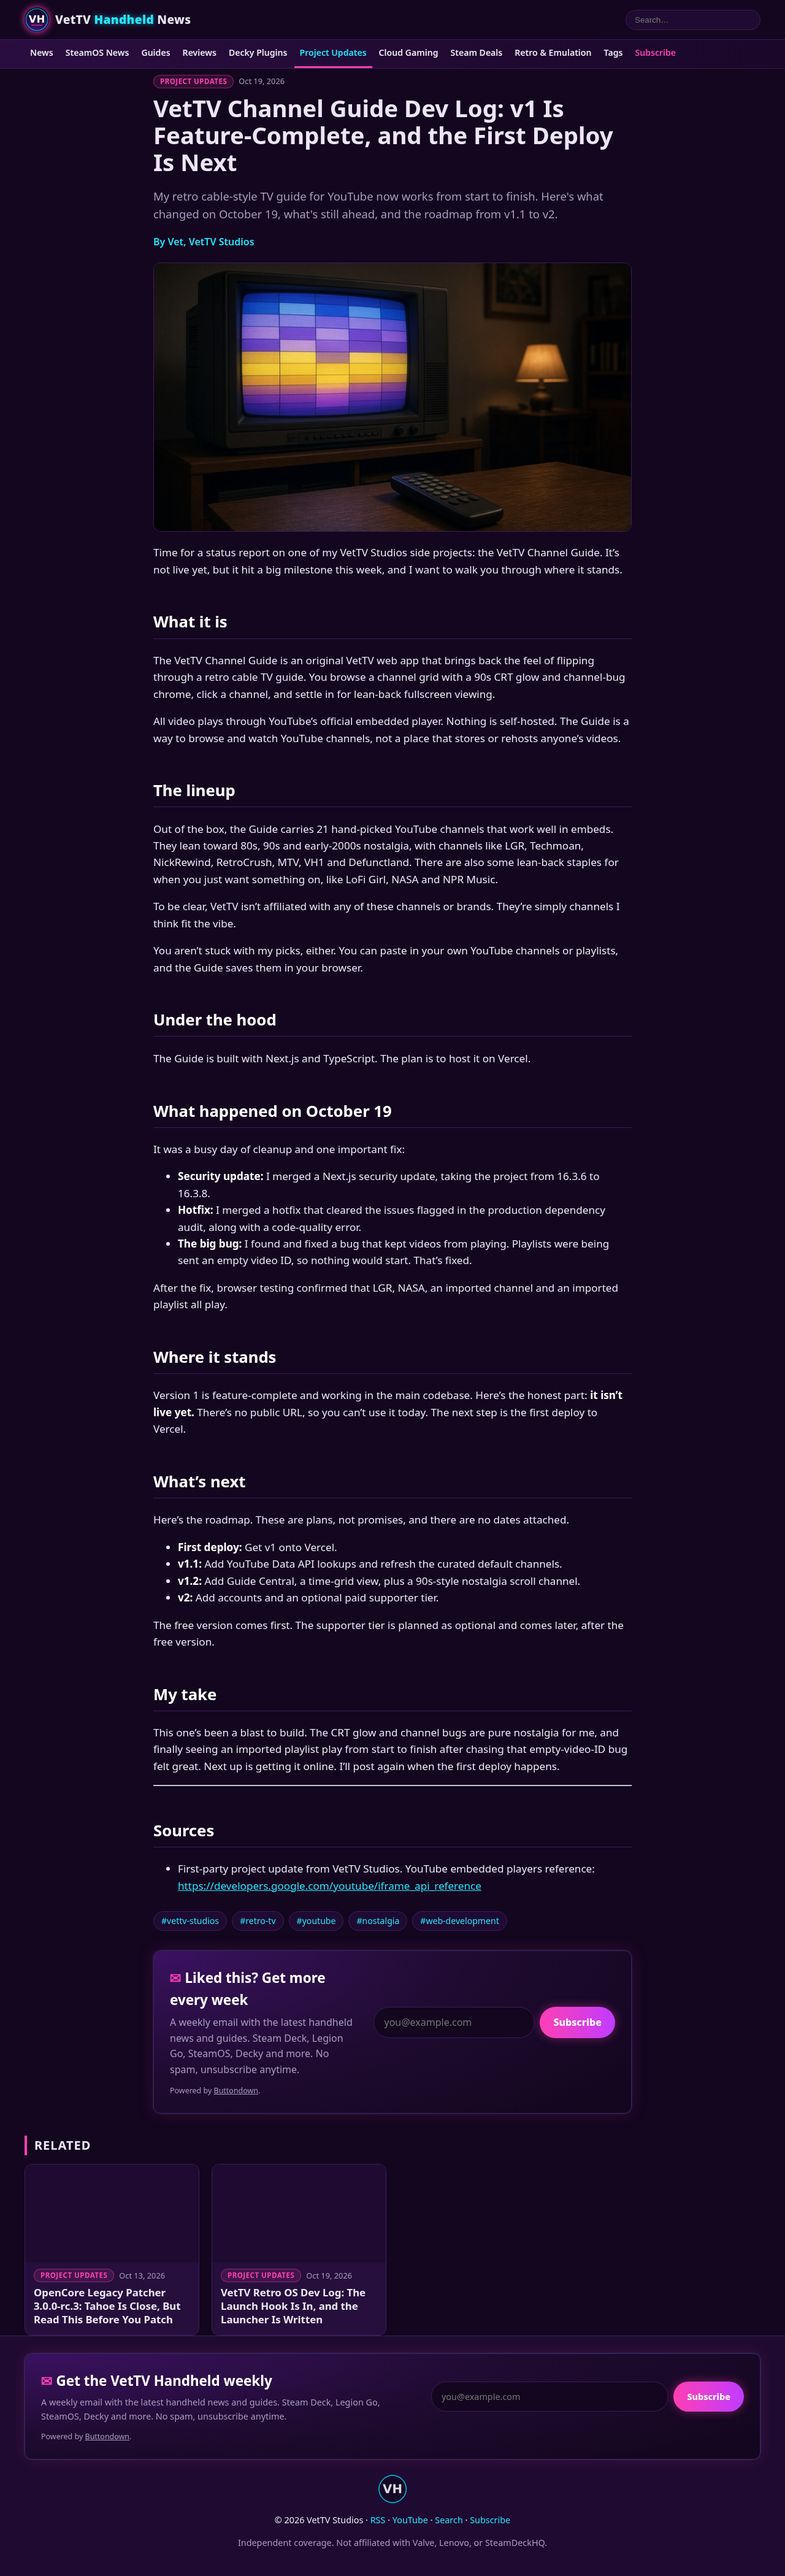
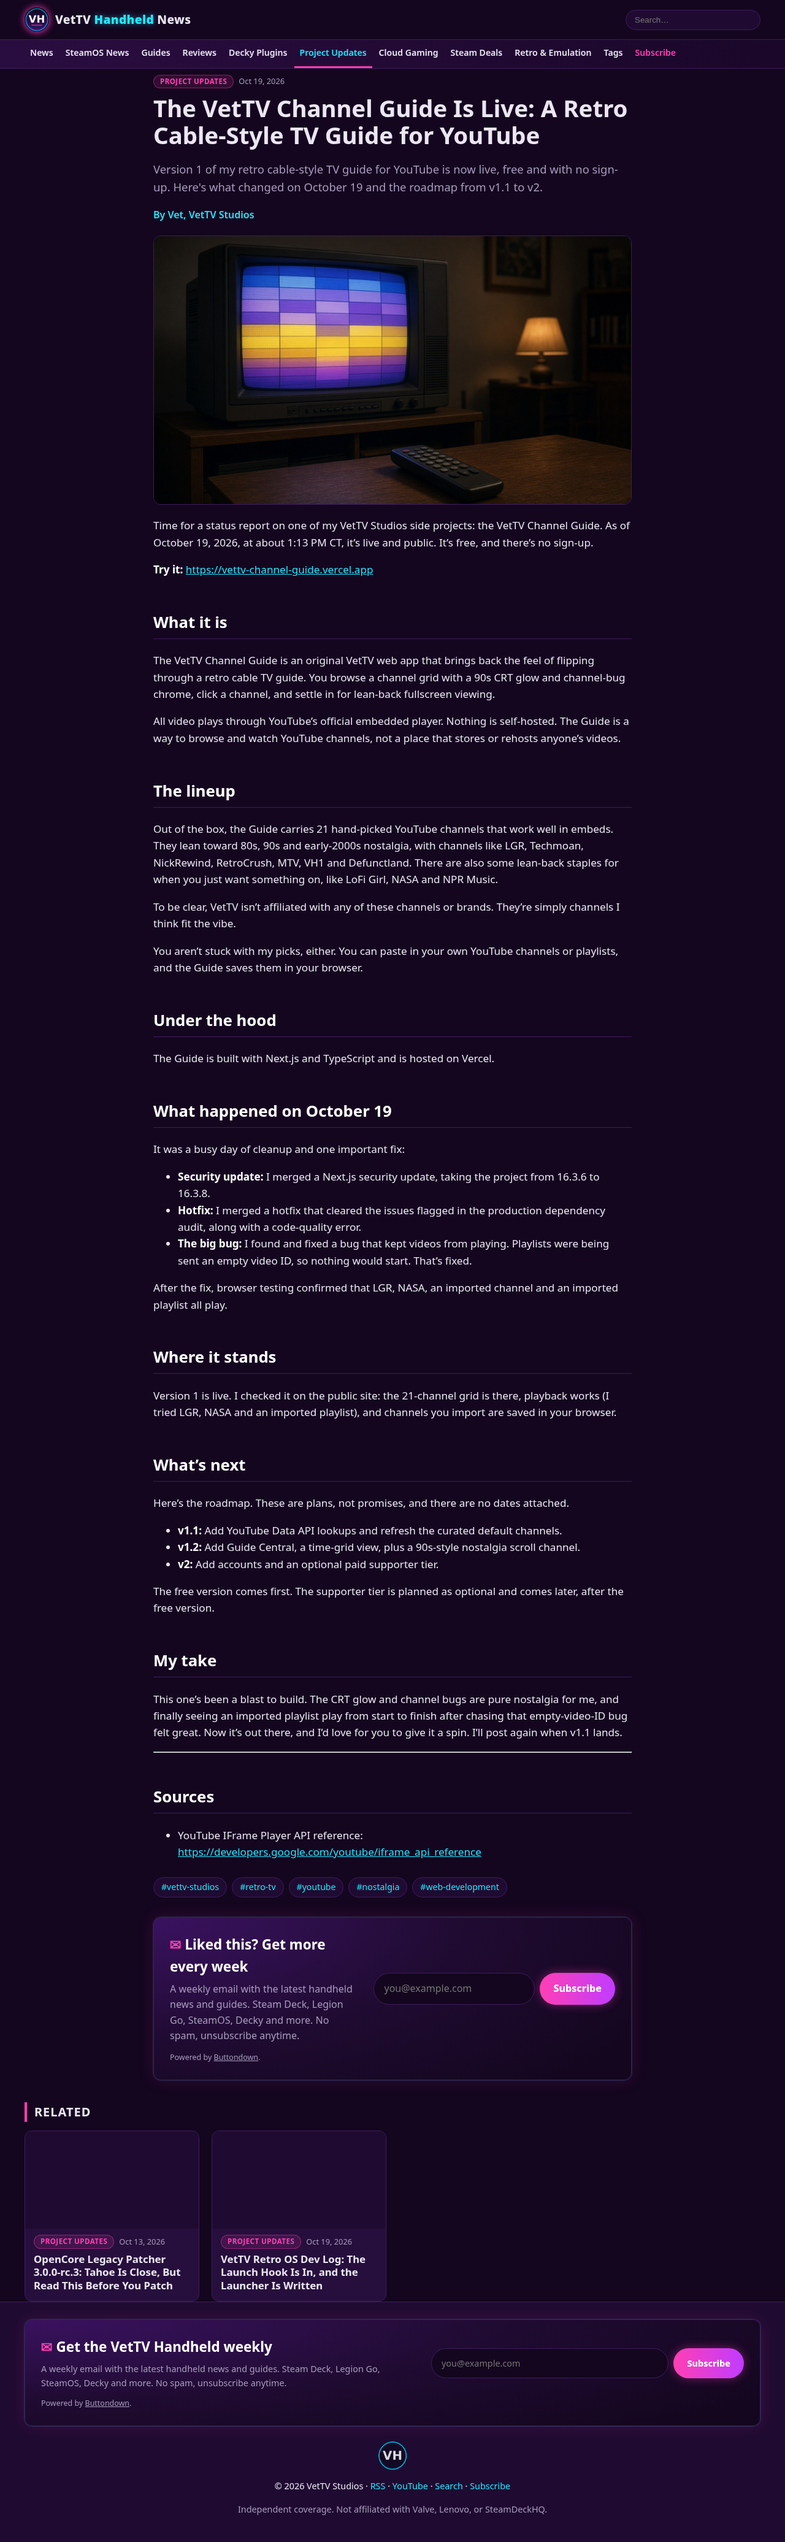
Update Channel Guide post: v1 is live (new headline/subhead/SEO title, Try it link)

diff --git a/src/content/posts/vettv-channel-guide-status-oct-2026.md b/src/content/posts/vettv-channel-guide-status-oct-2026.md
@@ -1,8 +1,8 @@
 ---
-title: "VetTV Channel Guide Dev Log: v1 Is Feature-Complete, and the First Deploy Is Next"
-description: "My retro cable-style TV guide for YouTube now works from start to finish. Here's what changed on October 19, what's still ahead, and the roadmap from v1.1 to v2."
-summary: "My retro cable-style TV guide for YouTube now works from start to finish. Here's what changed on October 19, what's still ahead, and the roadmap from v1.1 to v2."
-seoTitle: "VetTV Channel Guide Dev Log: v1 Feature-Complete, Deploy Next"
+title: "The VetTV Channel Guide Is Live: A Retro Cable-Style TV Guide for YouTube"
+description: "Version 1 of my retro cable-style TV guide for YouTube is now live, free and with no sign-up. Here's what changed on October 19 and the roadmap from v1.1 to v2."
+summary: "Version 1 of my retro cable-style TV guide for YouTube is now live, free and with no sign-up. Here's what changed on October 19 and the roadmap from v1.1 to v2."
+seoTitle: "VetTV Channel Guide Is Live: Retro Cable TV Guide for YouTube"
 pubDate: 2026-10-19
 publishedAt: 2026-10-19T18:04:04.143Z
 author: "Vet, VetTV Studios"
@@ -15,7 +15,9 @@ sources:
     url: "https://developers.google.com/youtube/iframe_api_reference"
 source: "Article Desk: vettv-channel-guide-status-oct-2026.md"
 ---
-Time for a status report on one of my VetTV Studios side projects: the VetTV Channel Guide. It's not live yet, but it hit a big milestone this week, and I want to walk you through where it stands.
+Time for a status report on one of my VetTV Studios side projects: the VetTV Channel Guide. As of October 19, 2026, at about 1:13 PM CT, it's live and public. It's free, and there's no sign-up.
+
+**Try it:** https://vettv-channel-guide.vercel.app
 
 ## What it is
 
@@ -33,7 +35,7 @@ You aren't stuck with my picks, either. You can paste in your own YouTube channe
 
 ## Under the hood
 
-The Guide is built with Next.js and TypeScript. The plan is to host it on Vercel.
+The Guide is built with Next.js and TypeScript and is hosted on Vercel.
 
 ## What happened on October 19
 
@@ -47,13 +49,12 @@ After the fix, browser testing confirmed that LGR, NASA, an imported channel and
 
 ## Where it stands
 
-Version 1 is feature-complete and working in the main codebase. Here's the honest part: **it isn't live yet.** There's no public URL, so you can't use it today. The next step is the first deploy to Vercel.
+Version 1 is live. I checked it on the public site: the 21-channel grid is there, playback works (I tried LGR, NASA and an imported playlist), and channels you import are saved in your browser.
 
 ## What's next
 
 Here's the roadmap. These are plans, not promises, and there are no dates attached.
 
-- **First deploy:** Get v1 onto Vercel.
 - **v1.1:** Add YouTube Data API lookups and refresh the curated default channels.
 - **v1.2:** Add Guide Central, a time-grid view, plus a 90s-style nostalgia scroll channel.
 - **v2:** Add accounts and an optional paid supporter tier.
@@ -62,7 +63,7 @@ The free version comes first. The supporter tier is planned as optional and come
 
 ## My take
 
-This one's been a blast to build. The CRT glow and channel bugs are pure nostalgia for me, and finally seeing an imported playlist play from start to finish after chasing that empty-video-ID bug felt great. Next up is getting it online. I'll post again when the first deploy happens.
+This one's been a blast to build. The CRT glow and channel bugs are pure nostalgia for me, and finally seeing an imported playlist play from start to finish after chasing that empty-video-ID bug felt great. Now it's out there, and I'd love for you to give it a spin. I'll post again when v1.1 lands.
 
 ---
 
